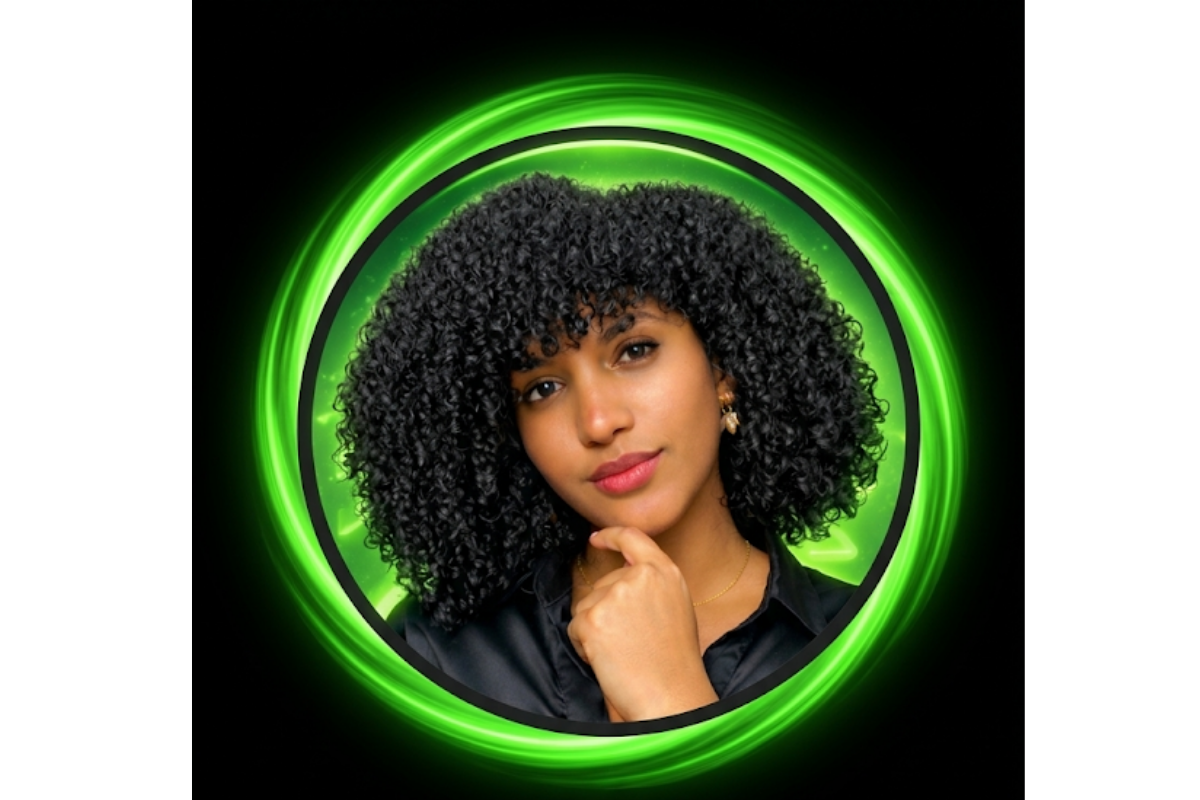
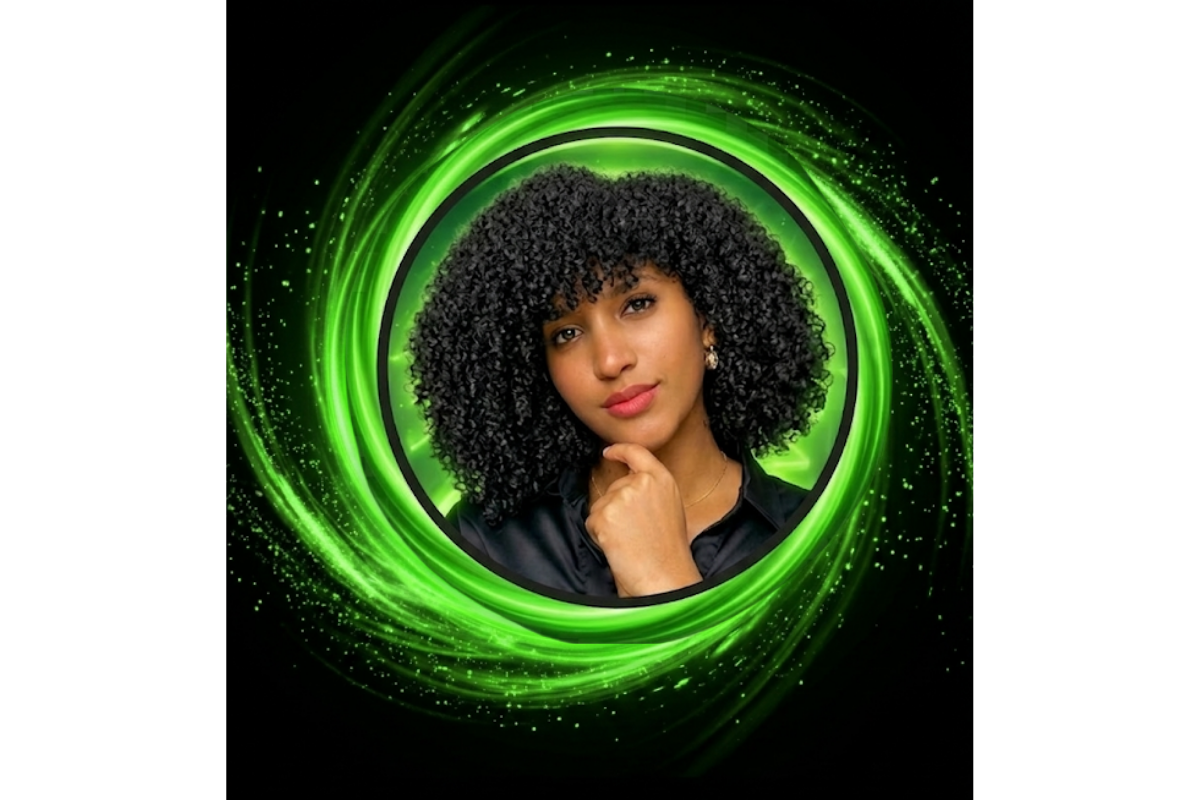
updates sizes and fonts

diff --git a/src/App.jsx b/src/App.jsx
@@ -1,6 +1,7 @@
 import { useEffect, useMemo, useRef, useState } from "react";
 import mentorImg from "./assets/pal-mentor.png";
-import badgeImg from "./assets/pal-badge.png";
+import mentorImg2 from "./assets/pal-mentor2.png";
+import ringImg from "./assets/pal-ring.png";
 
 const WHATSAPP_LINK = "https://wa.me/message/LMSJBMQJW4E2A1";
 
@@ -28,10 +29,10 @@ const slides = [
       "EL RECLUTADOR\nPERDONA UN ERROR\nGRAMATICAL PEQUEÑO,\nPERO JAMÁS PERDONA\nTU MIEDO.\n\nSI TÚ DUDAS, ELLOS DUDAN.\nTU INSEGURIDAD TE CUESTA\nEL EMPLEO.",
     bottom:
       "*LA ENTREVISTA SE GANA POR CÓMO LO DICES, NO SOLO POR QUÉ DICES.*",
-    circleClass:
-      "text-[1.65rem] leading-[0.9] sm:text-[2.2rem] md:text-[2.6rem]",
-    bottomClass: "text-[0.86rem] leading-[1] sm:text-[1rem]",
-    wrap: "max-w-[420px] sm:max-w-[520px]",
+      circleClass:
+      "text-[clamp(2.2rem,6vw,3.2rem)] leading-[0.92]",
+    bottomClass: "text-[0.95rem] leading-[1] sm:text-[1.08rem]",
+    wrap: "max-w-[520px] sm:max-w-[620px]",
   },
   {
     id: 3,
@@ -43,10 +44,10 @@ const slides = [
       "EL 90% DE LOS\nCANDIDATOS DIVAGA.\nEL RECLUTADOR ODIA\nEL DESORDEN MENTAL.\n\nNARRA TU HISTORIA (EN INGLÉS):\n“A customer was upset (S), my\ngoal was to calm him (T), I fixed\nthe error step-by-step (A), and\nI got a 5-star rating (R).”",
     bottom:
       "UN FINAL FELIZ CON RESULTADOS ESPECÍFICOS VALE MÁS QUE MIL PALABRAS.",
-    circleClass:
-      "text-[1.4rem] leading-[0.92] sm:text-[1.85rem] md:text-[2.2rem]",
-    bottomClass: "text-[0.82rem] leading-[1] sm:text-[0.96rem]",
-    wrap: "max-w-[420px] sm:max-w-[520px]",
+      circleClass:
+      "text-[clamp(1.8rem,5vw,2.6rem)] leading-[0.92]",
+    bottomClass: "text-[0.92rem] leading-[1] sm:text-[1.04rem]",
+    wrap: "max-w-[540px] sm:max-w-[640px]",
   },
   {
     id: 4,
@@ -58,9 +59,9 @@ const slides = [
       "¿SIN EXPERIENCIA?\n➜ Actitud, Logros\nPersonales y Carrera\nen la empresa.\n\n¿CON EXPERIENCIA?\n➜ Números y Soluciones\nCríticas en trabajo anterior.",
     bottom: "Sé la solución que cierra su meta hoy.",
     circleClass:
-      "text-[1.5rem] leading-[0.92] sm:text-[2rem] md:text-[2.3rem]",
-    bottomClass: "text-[0.92rem] leading-[1] sm:text-[1.08rem]",
-    wrap: "max-w-[420px] sm:max-w-[520px]",
+    "text-[clamp(2rem,5.5vw,2.8rem)] leading-[0.92]",
+    bottomClass: "text-[1rem] leading-[1] sm:text-[1.12rem]",
+    wrap: "max-w-[540px] sm:max-w-[640px]",
   },
   {
     id: 5,
@@ -68,11 +69,11 @@ const slides = [
     smallTop: "CÓDIGO CONFIDENCIAL",
     title: "EL EMPLEO TE LO GANAS TÚ.\nYO TE DOY LAS ARMAS.",
     paragraph:
-      "Las academias te dan gramática.\nYo te doy la estrategia y la fluidez para que\nno te quedes en blanco frente al reclutador.",
+      "Las academias te dan gramática.\nYo te doy la estrategia y la fluidez para que\nno te quedes en blanco frente al reclutador.\n\n",
     bullets: [
       ["PRÁCTICA REAL:", "Escenarios de Call Center."],
       ["LÓGICA:", "Responde lo que ellos quieren oír."],
-      ["COMUNIDAD:", "Practica diario a tu ritmo."],
+      ["COMUNIDAD:", "Practica diario a tu ritmo. "],
     ],
     cta: "¡SÍ! QUIERO ENTRAR AL RETO GRATIS",
     footnote: "*(Grupo WhatsApp).*",
@@ -95,7 +96,7 @@ function Arrow({ side, onClick }) {
         "flex h-11 w-11 items-center justify-center sm:h-12 sm:w-12",
         "transition hover:border-lime-400/80 hover:text-lime-300"
       )}
-      style={side === "left" ? { left: "-4px" } : { right: "-4px" }}
+      style={side === "left" ? { left: "10px" } : { right: "10px" }}
     >
       <span className="text-4xl leading-none">{side === "left" ? "‹" : "›"}</span>
     </button>
@@ -128,7 +129,7 @@ function GlowText({ children, className = "" }) {
     <div
       className={cn(
         "whitespace-pre-line text-center font-['Bebas_Neue'] uppercase text-[#b8ff54]",
-        "[text-shadow:0_0_6px_rgba(120,255,80,.55),0_0_18px_rgba(80,255,70,.22)]",
+        "[text-shadow:0_0_4px_rgba(120,255,80,.28),0_0_10px_rgba(80,255,70,.14)]",
         className
       )}
     >
@@ -137,12 +138,29 @@ function GlowText({ children, className = "" }) {
   );
 }
 
-function PortraitHero({ size = "h-[200px] w-[200px] sm:h-[250px] sm:w-[250px]" }) {
+function CoverHero() {
   return (
-    <div className={cn("relative", size)}>
-      <div className="absolute inset-0 overflow-hidden rounded-full bg-black">
+    <div className="relative h-[330px] w-[330px] sm:h-[410px] sm:w-[410px]">
+      <img
+        src={ringImg}
+        alt=""
+        className="absolute inset-0 h-full w-full object-contain"
+      />
+      <div className="absolute inset-[30px] overflow-hidden rounded-full bg-black sm:inset-[38px]">
         <img src={mentorImg} alt="" className="h-full w-full object-cover" />
       </div>
+    </div>
+  );
+}
+
+function CtaHero() {
+  return (
+    <div className="flex justify-center">
+      <img
+        src={mentorImg2}
+        alt=""
+        className="h-[240px] w-[240px] object-cover sm:h-[300px] sm:w-[300px]"
+      />
     </div>
   );
 }
@@ -150,17 +168,17 @@ function PortraitHero({ size = "h-[200px] w-[200px] sm:h-[250px] sm:w-[250px]" }
 function CoverSlide({ slide }) {
   return (
     <div className="flex h-full flex-col items-center justify-center">
-      <PortraitHero />
+      <CoverHero />
 
-      <div className="mt-4 whitespace-pre-line text-center font-['Bebas_Neue'] text-[1.45rem] leading-[0.95] tracking-[0.02em] text-white sm:text-[2rem]">
+      <div className="mt-6 text-center font-['Bebas_Neue'] text-[2rem] leading-[0.92] tracking-tight text-white sm:text-[2.25rem]">
         {slide.eyebrow}
       </div>
 
-      <GlowText className="mt-4 text-[2.9rem] leading-[0.88] tracking-[0.02em] sm:text-[4.25rem]">
+      <GlowText className="mt-5 text-[4.6rem] leading-[0.86] tracking-[0.01em] sm:text-[5.2rem]">
         {slide.title}
       </GlowText>
 
-      <div className="mt-4 whitespace-pre-line text-center font-['Bebas_Neue'] text-[1.35rem] leading-[0.95] tracking-[0.02em] text-white sm:text-[1.95rem]">
+      <div className="mt-5 whitespace-pre-line text-center font-['Bebas_Neue'] text-[1.8rem] leading-[0.94] tracking-tight text-white sm:text-[2.1rem]">
         {slide.subtitle}
       </div>
     </div>
@@ -169,22 +187,24 @@ function CoverSlide({ slide }) {
 
 function ContentSlide({ slide }) {
   return (
-    <div className="flex h-full flex-col items-center pt-4 pb-3">
-      <div className="text-center font-['Bebas_Neue'] text-[1.15rem] leading-none tracking-[0.05em] text-white sm:text-[1.5rem]">
-        {slide.smallTop}
+    <div className="flex h-full flex-col px-2">
+      <div className="pt-4">
+        <div className="text-center font-['Bebas_Neue'] text-[1.15rem] leading-none tracking-[0.05em] text-white sm:text-[1.5rem]">
+          {slide.smallTop}
+        </div>
+
+        <div className="mx-auto mt-2 h-px w-[86%] max-w-[460px] bg-white/70" />
+
+        <div className="mt-3 text-center font-['Bebas_Neue'] text-[2.35rem] leading-[0.88] tracking-tight text-white sm:text-[3.3rem]">
+          {slide.title}
+        </div>
+
+        <div className="mt-2 text-center font-['Bebas_Neue'] text-[1.28rem] leading-[0.9] tracking-tight text-white/90 sm:text-[1.9rem]">
+          {slide.subtitle}
+        </div>
       </div>
 
-      <div className="mt-2 h-px w-[82%] max-w-[430px] bg-white/70" />
-
-      <div className="mt-3 text-center font-['Bebas_Neue'] text-[2.1rem] leading-[0.88] tracking-tight text-white sm:text-[3.2rem]">
-        {slide.title}
-      </div>
-
-      <div className="mt-2 text-center font-['Bebas_Neue'] text-[1.2rem] leading-[0.9] tracking-tight text-white sm:text-[1.85rem]">
-        {slide.subtitle}
-      </div>
-
-      <div className="mt-6 flex items-center justify-center">
+      <div className="flex flex-1 items-center justify-center py-4">
         <GlowText
           className={cn(
             "px-2 tracking-[0.01em]",
@@ -198,7 +218,7 @@ function ContentSlide({ slide }) {
 
       <div
         className={cn(
-          "mt-7 max-w-[94%] text-center font-['Bebas_Neue'] uppercase tracking-tight text-white",
+          "pb-3 text-center font-['Bebas_Neue'] uppercase tracking-tight text-white/95",
           slide.bottomClass
         )}
       >
@@ -208,24 +228,14 @@ function ContentSlide({ slide }) {
   );
 }
 
-function BadgeImage() {
-  return (
-    <img
-      src={badgeImg}
-      alt=""
-      className="absolute left-0 top-[72px] z-20 h-[78px] w-[78px] object-contain sm:left-3 sm:top-[88px] sm:h-[110px] sm:w-[110px]"
-    />
-  );
-}
-
 function Bullet({ label, text }) {
   return (
-    <div className="flex items-start gap-2.5">
-      <div className="mt-0.5 flex h-6 w-6 shrink-0 items-center justify-center rounded-full bg-lime-500 text-sm font-black text-white sm:h-7 sm:w-7">
+    <div className="flex items-start gap-3">
+      <div className="mt-0.5 flex h-7 w-7 shrink-0 items-center justify-center rounded-full bg-lime-500 text-base font-black text-white">
         ✓
       </div>
-      <div className="text-[0.92rem] leading-[1.06] text-white sm:text-[1.08rem]">
-        <span className="font-['Bebas_Neue'] text-[1.05rem] tracking-[0.03em] text-lime-400 sm:text-[1.3rem]">
+      <div className="text-[0.96rem] leading-[1.08] text-white sm:text-[1.12rem]">
+        <span className="font-['Bebas_Neue'] text-[1.12rem] tracking-[0.03em] text-lime-400 sm:text-[1.36rem]">
           {label}
         </span>{" "}
         <span>{text}</span>
@@ -236,49 +246,50 @@ function Bullet({ label, text }) {
 
 function CtaSlide({ slide }) {
   return (
-    <div className="flex h-full flex-col items-center justify-center">
-      <div className="text-center font-['Bebas_Neue'] text-[1.05rem] leading-none tracking-[0.05em] text-white sm:text-[1.4rem]">
-        {slide.smallTop}
-      </div>
-
-      <div className="mx-auto mt-2 h-px w-full max-w-[320px] bg-white/70 sm:max-w-[430px]" />
-
-      <div className="relative mt-3">
-        <div className="relative h-[135px] w-[135px] sm:h-[175px] sm:w-[175px]">
-          <div className="absolute inset-0 overflow-hidden rounded-full bg-black">
-            <img src={mentorImg} alt="" className="h-full w-full object-cover" />
-          </div>
+    <div className="flex h-full flex-col px-2">
+      <div className="pt-3">
+        <div className="text-center font-['Bebas_Neue'] text-[1.1rem] leading-none tracking-[0.05em] text-white sm:text-[1.4rem]">
+          {slide.smallTop}
         </div>
-        <BadgeImage />
+
+        <div className="mx-auto mt-2 h-px w-full max-w-[430px] bg-white/70" />
+
+        <div className="mt-4">
+          <CtaHero />
+        </div>
+
+        <GlowText className="mt-4 text-[2.1rem] leading-[0.9] tracking-[0.01em] sm:text-[2.9rem]">
+          {slide.title}
+        </GlowText>
+
+        <div className="mt-3 whitespace-pre-line text-center text-[1rem] leading-[1.1] text-white sm:text-[1.08rem]">
+          {slide.paragraph}
+        </div>
       </div>
 
-      <GlowText className="mt-3 text-[1.65rem] leading-[0.9] tracking-[0.02em] sm:text-[2.55rem]">
-        {slide.title}
-      </GlowText>
-
-      <div className="mt-2 whitespace-pre-line text-center text-[0.88rem] leading-[1.08] text-white sm:text-[1rem]">
-        {slide.paragraph}
+      <div className="flex flex-1 items-center justify-center">
+        <div className="mx-auto flex w-full max-w-[430px] flex-col gap-4">
+          {slide.bullets.map(([label, text]) => (
+            <Bullet key={label} label={label} text={text} />
+          ))}
+        </div>
       </div>
 
-      <div className="mt-3 flex w-full max-w-[360px] flex-col gap-2.5">
-        {slide.bullets.map(([label, text]) => (
-          <Bullet key={label} label={label} text={text} />
-        ))}
-      </div>
+      <div className="pb-3">
+        <a
+          href={WHATSAPP_LINK}
+          target="_blank"
+          rel="noreferrer"
+          className="mx-auto flex w-full max-w-[420px] flex-col items-center justify-center rounded-[28px] bg-[#a7ef2d] px-6 py-5 text-center text-black shadow-[0_0_24px_rgba(167,239,45,0.35)] transition hover:brightness-105"
+        >
+          <span className="font-['Bebas_Neue'] text-[2.05rem] leading-[0.92] tracking-tight sm:text-[3rem]">
+            {slide.cta}
+          </span>
+        </a>
 
-      <a
-        href={WHATSAPP_LINK}
-        target="_blank"
-        rel="noreferrer"
-        className="mt-5 flex w-full max-w-[360px] flex-col items-center justify-center rounded-[28px] bg-[#a7ef2d] px-6 py-5 text-center text-black shadow-[0_0_24px_rgba(167,239,45,0.35)] transition hover:brightness-105"
-      >
-        <span className="font-['Bebas_Neue'] text-[2.2rem] leading-[0.9] tracking-tight sm:text-[3rem]">
-          {slide.cta}
-        </span>
-      </a>
-
-      <div className="mt-1 text-center text-[0.76rem] italic text-white/75 sm:text-[0.88rem]">
-        {slide.footnote}
+        <div className="mt-2 text-center text-[0.8rem] italic text-white/75 sm:text-[0.9rem]">
+          {slide.footnote}
+        </div>
       </div>
     </div>
   );
@@ -286,7 +297,7 @@ function CtaSlide({ slide }) {
 
 function Slide({ slide }) {
   return (
-    <div className="relative mx-auto h-[100dvh] max-h-[100dvh] w-full max-w-[600px] overflow-hidden bg-black px-5 pb-3 pt-3 sm:px-8 sm:pb-4 sm:pt-4">
+    <div className="relative h-full w-full overflow-hidden bg-black px-5 py-4 sm:px-8 sm:py-5">
       {slide.type === "cover" && <CoverSlide slide={slide} />}
       {slide.type === "content" && <ContentSlide slide={slide} />}
       {slide.type === "cta" && <CtaSlide slide={slide} />}
@@ -337,10 +348,10 @@ export default function App() {
   };
 
   return (
-    <main className="h-[100dvh] overflow-hidden bg-black text-white">
-      <div className="mx-auto h-[100dvh] max-w-[720px]">
+    <main className="h-[100dvh] w-screen overflow-hidden bg-black text-white">
+      <div className="h-[100dvh] w-full">
         <div
-          className="relative h-[calc(100dvh-38px)]"
+          className="relative h-[calc(100dvh-38px)] w-full"
           onTouchStart={handleTouchStart}
           onTouchEnd={handleTouchEnd}
         >
